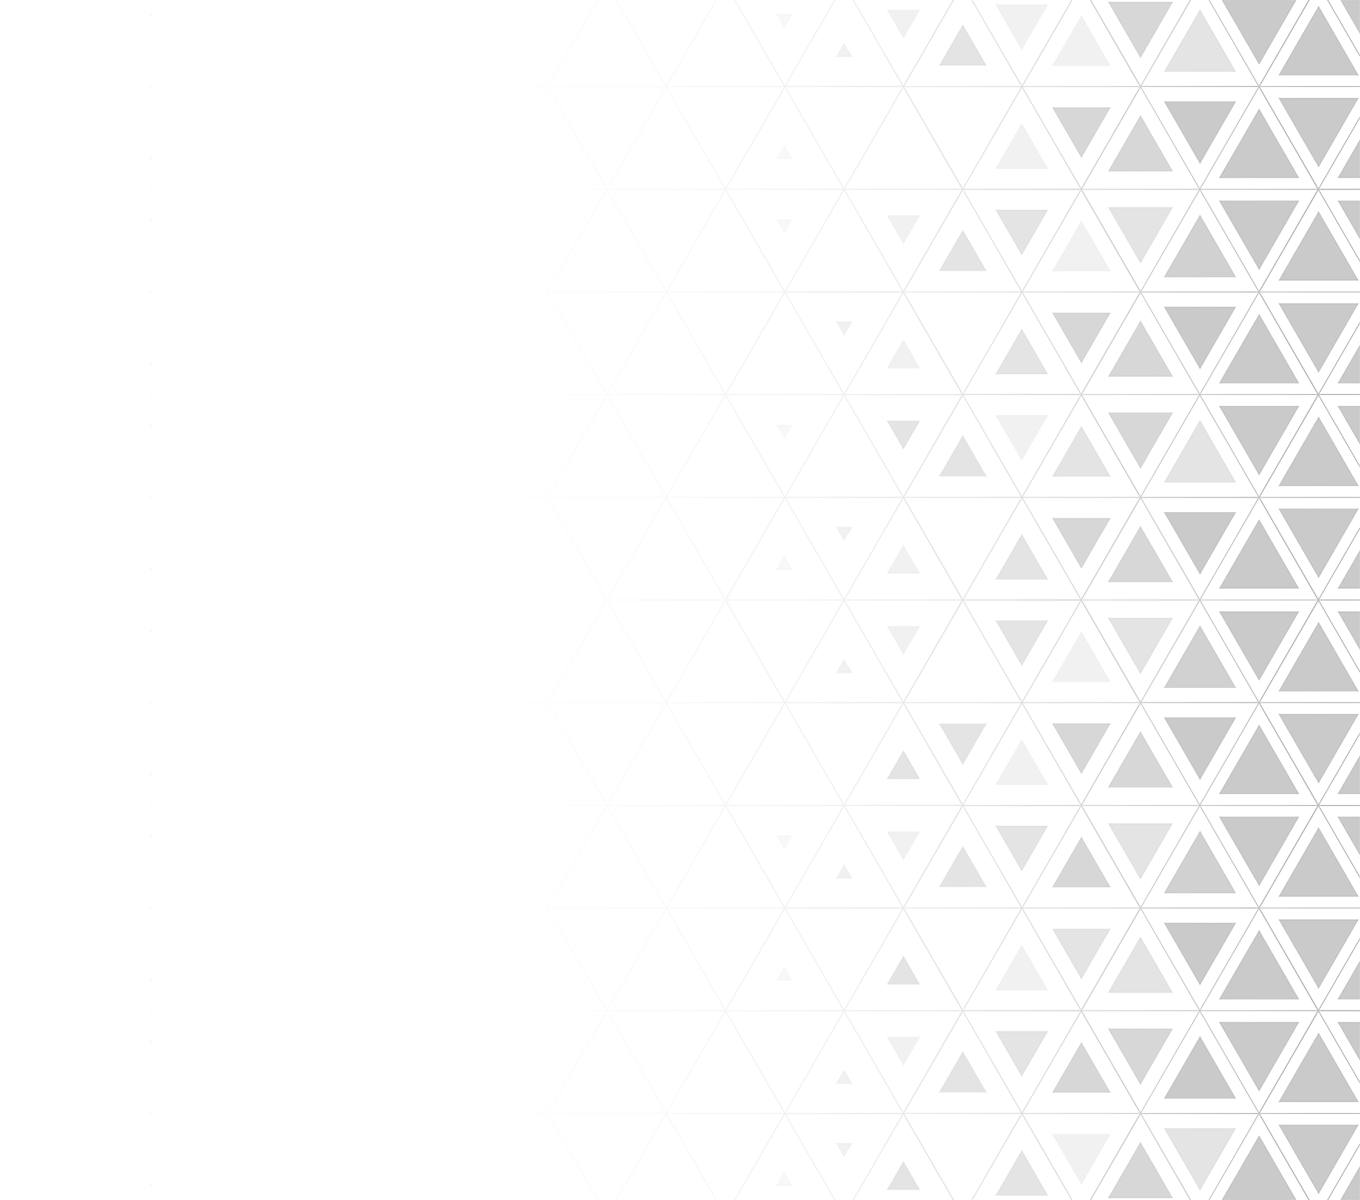
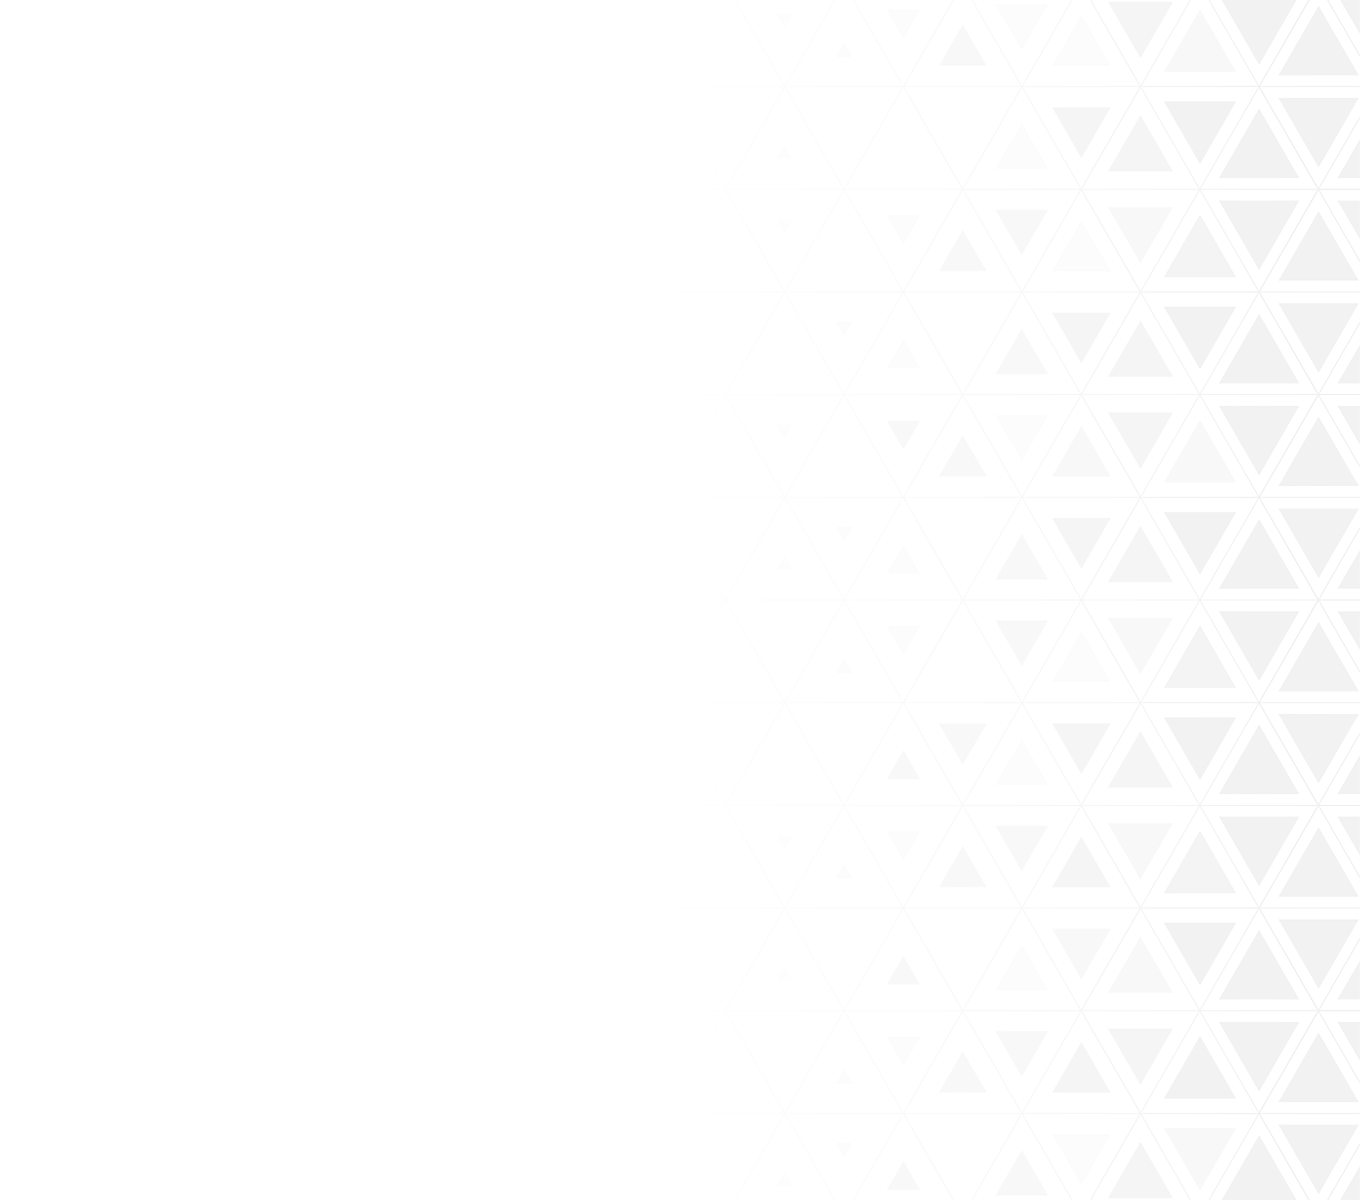
ff

Changed region(s): [[0.7721, 0.0, 1.0, 1.0], [0.8029, 0.9558, 0.8647, 1.0], [0.7721, 0.7092, 0.8338, 0.74]]

diff --git a/wp-content/themes/pramana-trans/assets/css/custom.css b/wp-content/themes/pramana-trans/assets/css/custom.css
@@ -513,4 +513,17 @@
     min-height: inherit !important;
     height: auto !important;
   }
+
+  .header .logo h1{
+    font-size: 1rem;
+  }
+
+  .customs_ptrn.about{
+    background: none !important;
+    background-color: #f8f8f8 !important;
+  }
+  .customs_ptrn.about .container .row{
+    padding: 0 15px;
+  }
+
 }
